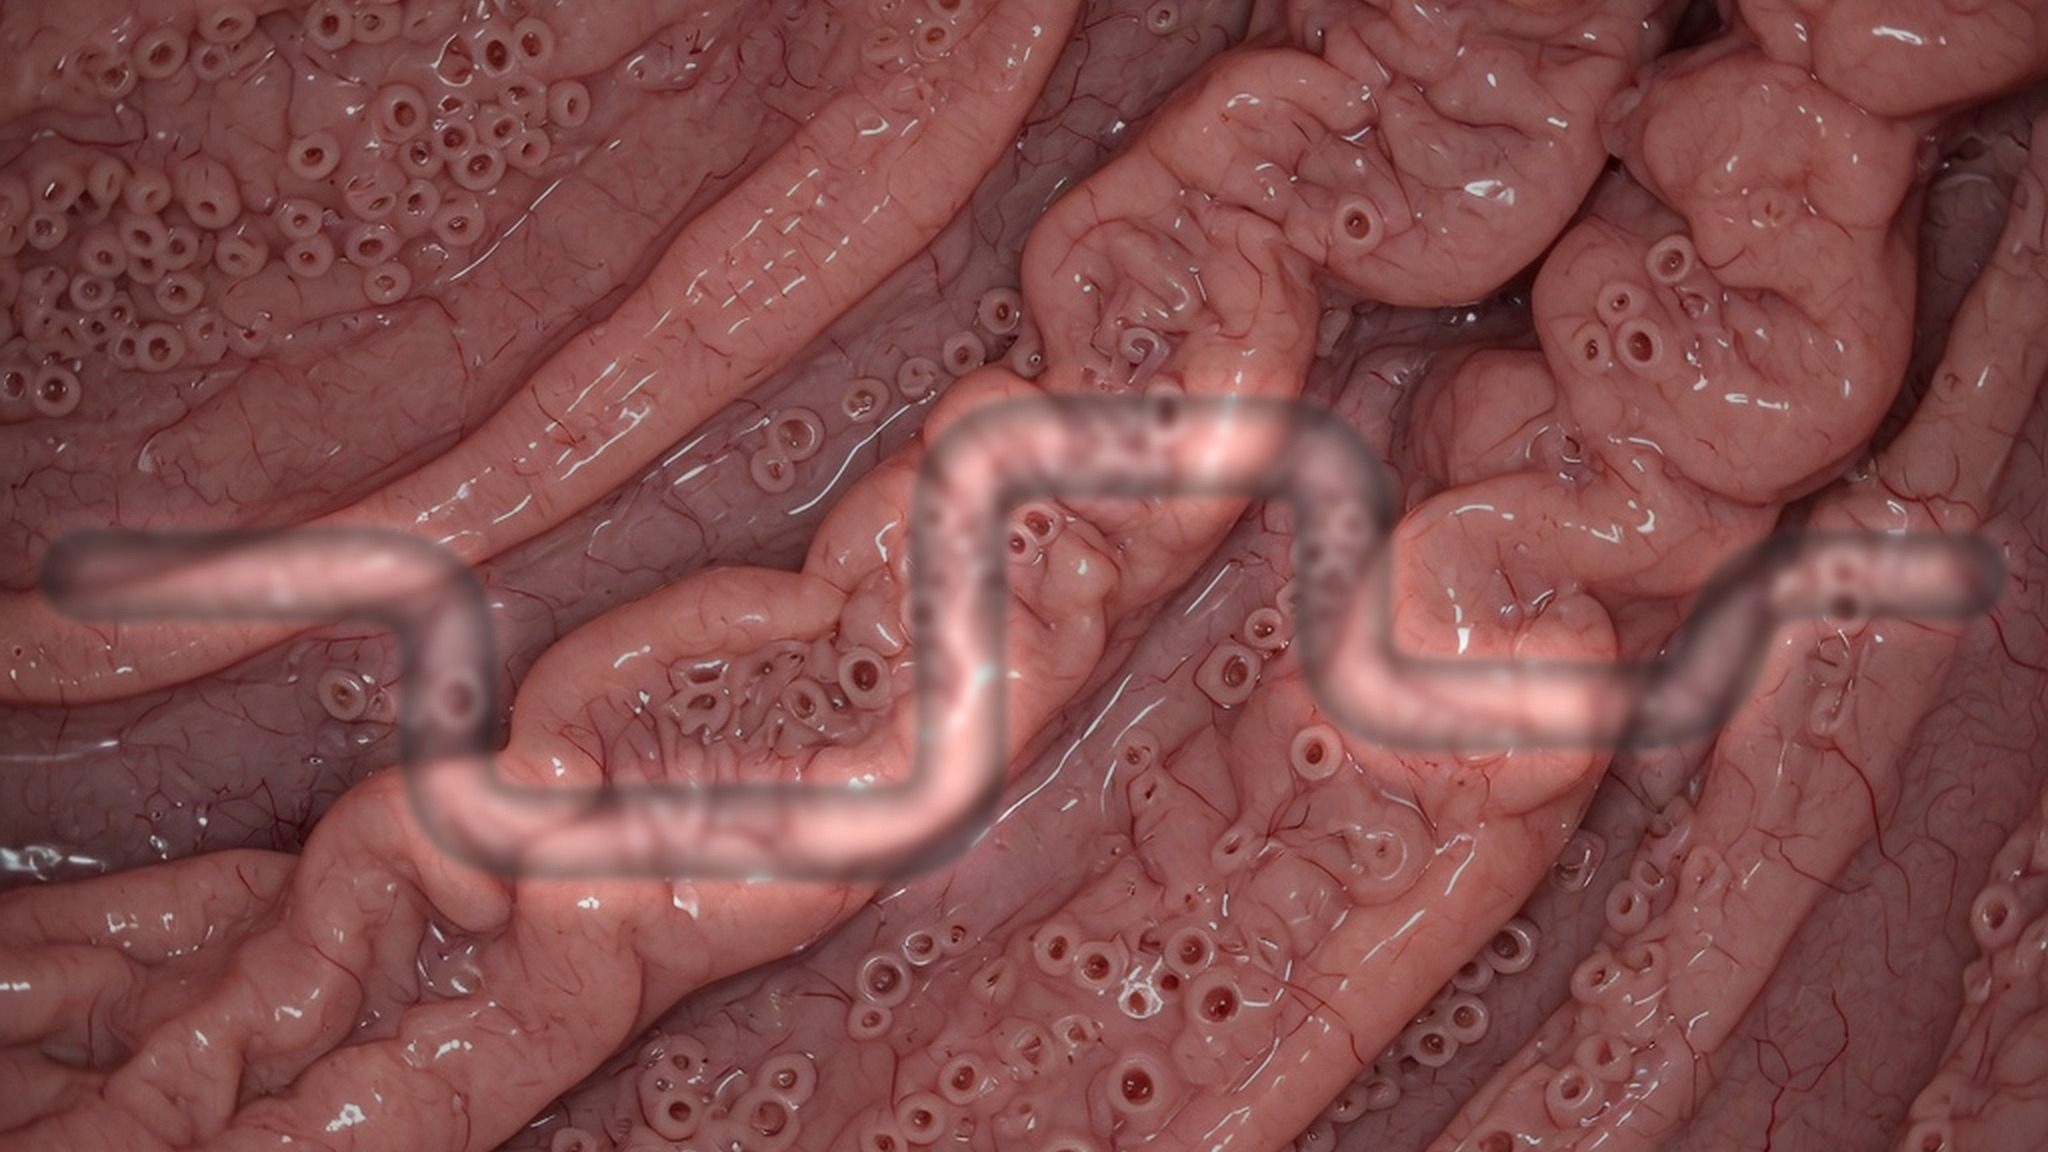
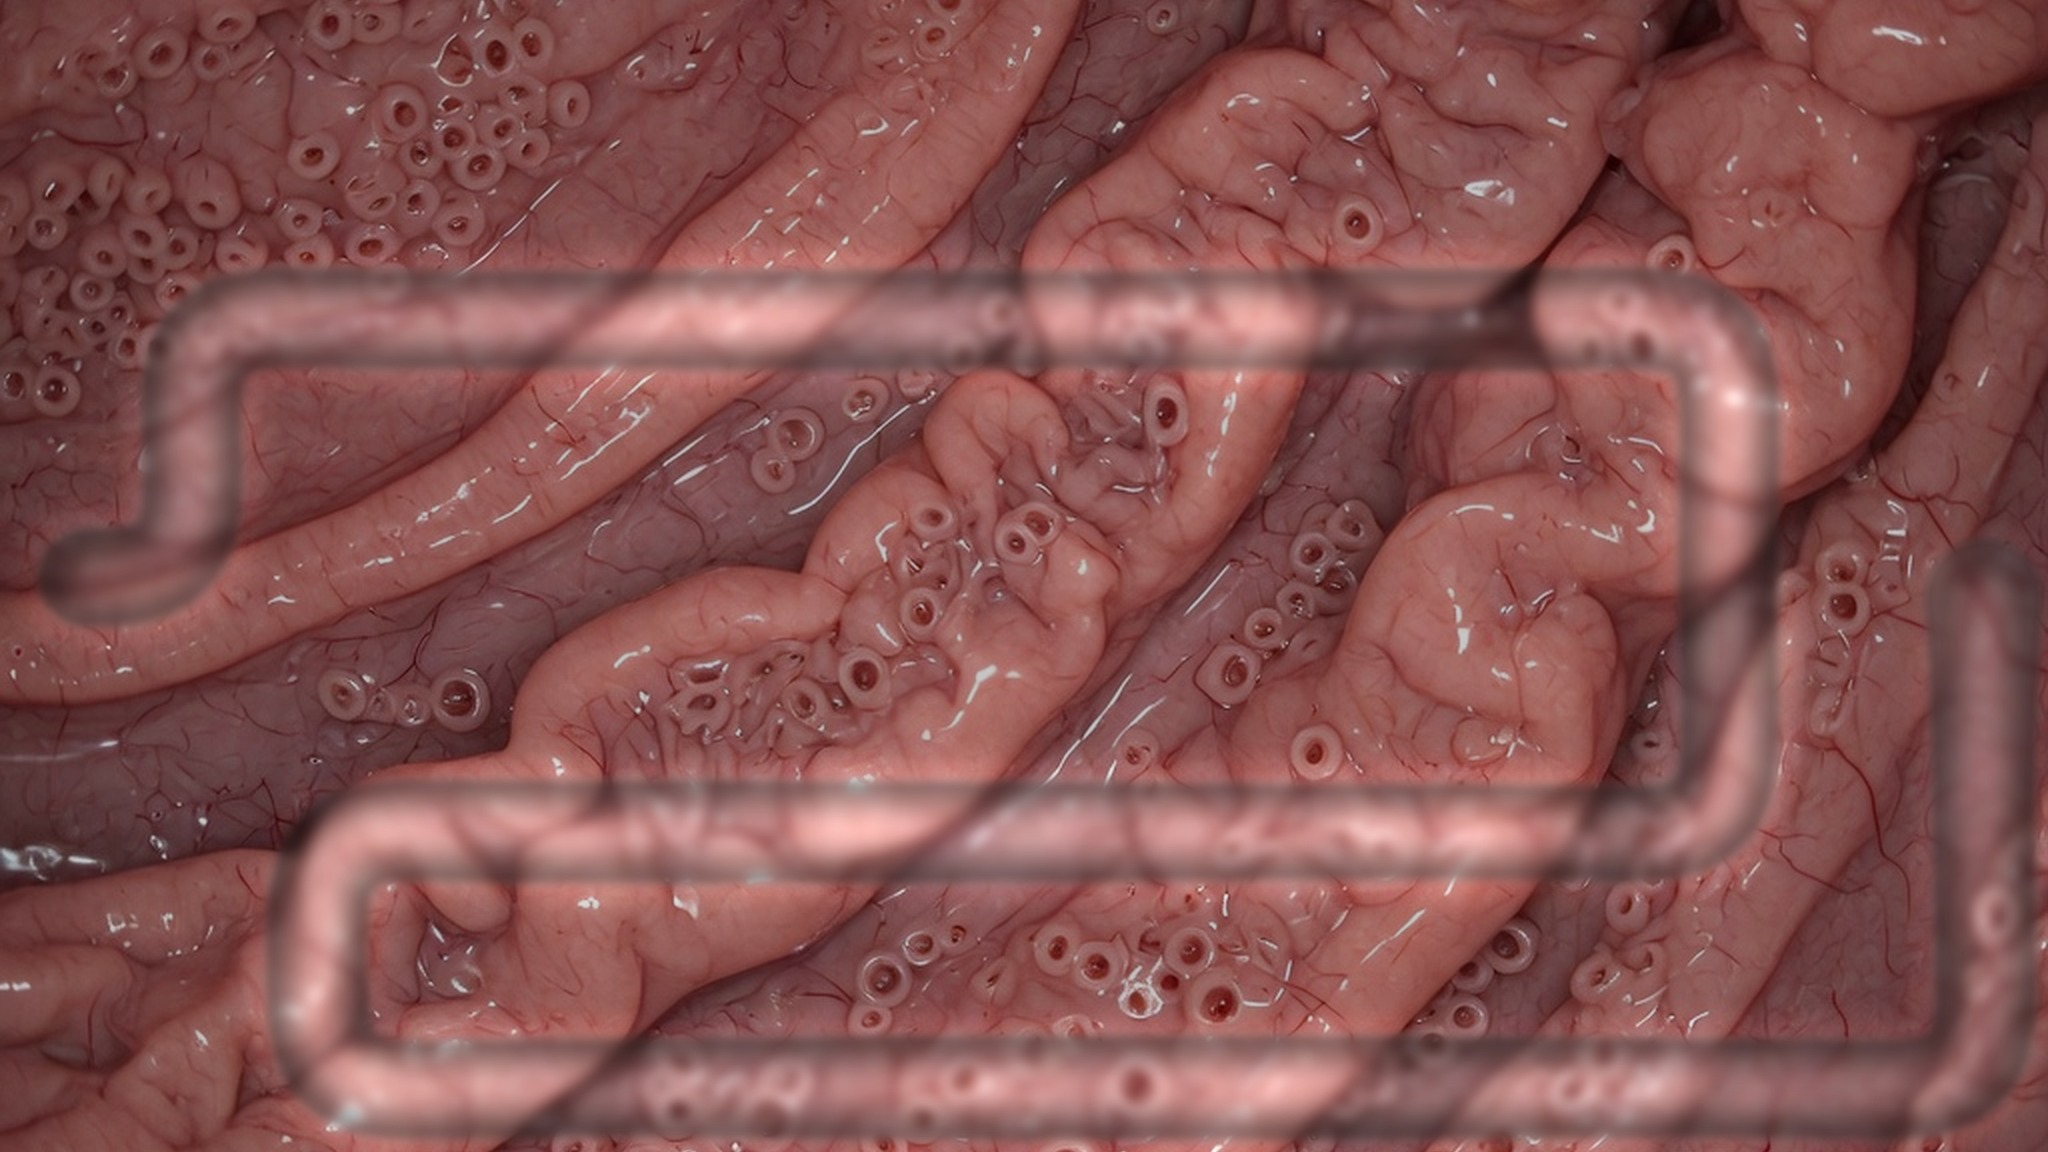
v107: M0 path 24 -> 50 waypoints; decouple selftests from route geometry
The map could not be changed because ~20 selftests hardcoded cells and tick
budgets chosen for one specific 24-cell route. Those expectations now derive
from Path.WAYPOINTS, so future path edits need no test edits:

- window.cellCovering / cellFarFromPath pick tower cells from the route
- traversal budgets scale with waypoint count instead of a literal 240
- count pins derive (buildable = W*H - K); M0 length no longer pinned
- M1/M2/M3 remain verbatim-locked; only M0 is the tunable map
- assert() now records to window.__failLog: several tests rebuilt the overlay
  from an OK-only list, erasing the cause of their own failures
- new: path contiguity assert, which the old literal count never checked

Board art re-baked for the new route. tools/pathkit.py reports a route's blast
radius before it is applied. 67/67 selftests green on Chromium and WebKit.

Changed region(s): [[0.0625, 0.2188, 1.0, 1.0], [0.4375, 0.3438, 0.875, 0.7812]]

diff --git a/index.html b/index.html
@@ -232,7 +232,7 @@
   <div>Organ: <span id="hud-lives">0</span></div>
   <div>Wave: <span id="hud-wave">0</span></div>
   <div id="hud-packs" style="font-size:13px;opacity:0.9;">Packs: —</div>
-  <div id="hud-ver">v106</div>
+  <div id="hud-ver">v107</div>
   <button id="btn-fullscreen" type="button" title="Toggle fullscreen"
     style="display:none;margin-top:6px;width:100%;min-height:34px;font:14px monospace;
            cursor:pointer;border-radius:6px;border:1px solid #666;background:#222;color:#fff;">
@@ -266,18 +266,18 @@
   <button id="btn-sell" type="button" class="game-btn">Sell</button>
   <div id="rotate-hint">Rotate your phone — bigger board in landscape</div>
 </div>
-<script src="three.min.js?v=106"></script>
-<script src="js/path.js?v=106"></script>
-<script src="js/grid.js?v=106"></script>
-<script src="js/lives.js?v=106"></script>
-<script src="js/enemies.js?v=106"></script>
-<script src="js/economy.js?v=106"></script>
-<script src="js/towers.js?v=106"></script>
-<script src="js/waves.js?v=106"></script>
-<script src="js/missions.js?v=106"></script>
-<script src="js/game.js?v=106"></script>
-<script src="js/presentation.js?v=106"></script><script src="js/ambient.js?v=106"></script>
-<script src="js/sfx.js?v=106"></script>
+<script src="three.min.js?v=107"></script>
+<script src="js/path.js?v=107"></script>
+<script src="js/grid.js?v=107"></script>
+<script src="js/lives.js?v=107"></script>
+<script src="js/enemies.js?v=107"></script>
+<script src="js/economy.js?v=107"></script>
+<script src="js/towers.js?v=107"></script>
+<script src="js/waves.js?v=107"></script>
+<script src="js/missions.js?v=107"></script>
+<script src="js/game.js?v=107"></script>
+<script src="js/presentation.js?v=107"></script><script src="js/ambient.js?v=107"></script>
+<script src="js/sfx.js?v=107"></script>
 <script>
 (function() {
   var canvas = document.getElementById('c');
@@ -630,6 +630,52 @@
 
   // game state
   window.__game = { state: "ready", grid: Grid, path: Path, lives: Lives, enemies: Enemies };
+
+  // --- selftest geometry helpers -------------------------------------------------
+  // Targeting tests used to hardcode a tower cell hand-picked for one specific route
+  // (e.g. Towers.place(4,5) because the old wp3/wp5 happened to sit beside it). That
+  // silently pinned the map: any path edit broke a dozen tests for reasons that had
+  // nothing to do with the code under test. Derive the cell from the route instead.
+  // See tools/pathkit.py.
+
+  // Nearest buildable cell within Manhattan `r` of EVERY listed waypoint index.
+  // Returns [x,y], or null if the route admits no such cell.
+  window.cellCovering = function (idxs, r) {
+    var wps = [];
+    for (var i = 0; i < idxs.length; i++) {
+      var w = Path.cellAt(idxs[i]);
+      if (!w) return null;
+      wps.push(w);
+    }
+    for (var y = 0; y < Grid.H; y++) {
+      for (var x = 0; x < Grid.W; x++) {
+        if (!Grid.isBuildable(x, y)) continue;
+        var all = true;
+        for (var k = 0; k < wps.length; k++) {
+          if (Math.abs(wps[k][0] - x) + Math.abs(wps[k][1] - y) > r) { all = false; break; }
+        }
+        if (all) return [x, y];
+      }
+    }
+    return null;
+  };
+
+  // A buildable cell guaranteed to be OUT of range r of every waypoint (for
+  // "never acquires" tests, which previously hardcoded a far corner).
+  window.cellFarFromPath = function (r) {
+    for (var y = 0; y < Grid.H; y++) {
+      for (var x = 0; x < Grid.W; x++) {
+        if (!Grid.isBuildable(x, y)) continue;
+        var far = true;
+        for (var k = 0; k < Path.WAYPOINTS.length; k++) {
+          var w = Path.WAYPOINTS[k];
+          if (Math.abs(w[0] - x) + Math.abs(w[1] - y) <= r) { far = false; break; }
+        }
+        if (far) return [x, y];
+      }
+    }
+    return null;
+  };
 
   // selftest_PTarget — F-STAB target acquisition + retention
   window.selftest_PTarget = function() {
@@ -1079,8 +1125,13 @@
   window.addEventListener('resize', layoutBottomBar);
 
   // assert helper — writes to overlay, returns false on fail
+  // Several selftests rebuild overlay.textContent from an OK-only line list at the end,
+  // which ERASES the FAIL text written here and leaves a bare "SELFTEST X FAIL" with no
+  // cause. Record every failure in a durable log the gate can read regardless.
+  window.__failLog = [];
   function assert(cond, msg) {
     if (!cond) {
+      window.__failLog.push(msg);
       overlay.textContent += '\nFAIL: ' + msg;
       return false;
     }
@@ -1096,9 +1147,18 @@
 
     Grid.init(1);
 
-    // (a) WAYPOINTS.length === 24 and Path.length === 24
-    chk(Path.WAYPOINTS.length === 24, 'WAYPOINTS.length==24');
-    chk(Path.length === 24, 'Path.length==24');
+    // (a) Path mirrors the loaded mission table. Derived, NOT a hardcoded count:
+    // a literal here pinned the route and blocked every path change (see tools/pathkit.py).
+    var K = Path.WAYPOINTS.length;
+    chk(K >= 8, 'WAYPOINTS.length sane got ' + K);
+    chk(Path.length === K, 'Path.length==WAYPOINTS.length got ' + Path.length);
+
+    // (a.2) contiguity — the invariant the literal 24 never actually checked
+    for (var ic = 1; ic < K; ic++) {
+      var pa = Path.WAYPOINTS[ic - 1], pb = Path.WAYPOINTS[ic];
+      chk(Math.abs(pa[0] - pb[0]) + Math.abs(pa[1] - pb[1]) === 1,
+          'contiguous step ' + ic + ' [' + pa + ']->[' + pb + ']');
+    }
 
     // (b) every waypoint in bounds; no duplicates
     var seen = {};
@@ -1144,8 +1204,8 @@
         pathCount++;
       }
     }
-    chk(floorCount === 120, 'floorCount===120 got ' + floorCount);
-    chk(pathCount === 24, 'pathCount===24 got ' + pathCount);
+    chk(floorCount === Grid.W * Grid.H - K, 'floorCount===' + (Grid.W * Grid.H - K) + ' got ' + floorCount);
+    chk(pathCount === K, 'pathCount===' + K + ' got ' + pathCount);
     chk(blockedCount === 0, 'blockedCount===0 got ' + blockedCount);
 
     // (f) init(1) twice → identical gridTypes
@@ -1303,7 +1363,10 @@
     // (d) exit lives 5→4
     Lives.reset(); Enemies.reset();
     var idD = Enemies.spawn();
-    for (var t3 = 0; t3 < 240; t3++) { Enemies.tick(); }
+    // budget derived from route length (basic walks one cell per 10 ticks). A literal
+    // 240 here assumed a 24-cell route and broke the moment the map got longer.
+    var exitBudget = Path.WAYPOINTS.length * 10 + 40;
+    for (var t3 = 0; t3 < exitBudget; t3++) { Enemies.tick(); }
     chk(Enemies.count() === 0, '(d) count==0 after exit');
     chk(Enemies.get(idD) === null, '(d) get(id)==null after exit');
     chk(Lives.get() === 4, '(d) lives==4 got ' + Lives.get());
@@ -1523,7 +1586,10 @@
 
     // (e) acquisition = highest wpIndex among in-range
     fullReset();
-    var tidE = Towers.place(4, 5);
+    // cell derived from the route: must cover wp3 (t=30) and wp5 (t=50)
+    var cE = window.cellCovering([3, 5], 2);
+    chk(cE !== null, '(e.cell) a cell covering wp3+wp5 exists');
+    var tidE = Towers.place(cE[0], cE[1]);
     var e1 = Enemies.spawn(); // at wp0 initially, will advance
     for (var k4 = 0; k4 < 30; k4++) { Enemies.tick(); } // e1 advances to wpIndex=3
     var e2 = Enemies.spawn(); // at wp0, wpIndex=0
@@ -1798,7 +1864,10 @@
     chk(exitCell !== null && exitCell[0] === 15 && exitCell[1] === 4, '(d) exit=[15,4] got [' + (exitCell ? exitCell[0] : 'null') + ',' + (exitCell ? exitCell[1] : 'null') + ']');
 
     // (e) load0/1/2 restore M0/M1/M2 waypoint tables (literal deep-equal from missions.js)
-    var M0_WAYPOINTS = [[0,4],[1,4],[2,4],[3,4],[3,5],[3,6],[4,6],[5,6],[6,6],[7,6],[7,5],[7,4],[7,3],[8,3],[9,3],[10,3],[10,4],[10,5],[11,5],[12,5],[13,5],[13,4],[14,4],[15,4]];
+    // M0 is the tunable map — this block tests that its waypoints are RESTORED after
+    // loading other missions, not that they equal one specific route. M1/M2/M3 stay
+    // verbatim-locked below. See tools/pathkit.py.
+    var M0_WAYPOINTS = Missions.LIST[0].waypoints;
     var M1_WAYPOINTS = [[0,1],[1,1],[2,1],[3,1],[4,1],[5,1],[5,2],[5,3],[5,4],[6,4],[7,4],[8,4],[8,3],[8,2],[9,2],[10,2],[11,2],[11,3],[11,4],[11,5],[12,5],[13,5],[14,5],[15,5]];
     var M2_WAYPOINTS = [[0,7],[1,7],[2,7],[3,7],[3,6],[3,5],[3,4],[4,4],[5,4],[5,5],[5,6],[6,6],[7,6],[8,6],[9,6],[9,5],[9,4],[9,3],[10,3],[11,3],[12,3],[13,3],[13,2],[14,2],[15,2]];
     function deepEqual(a, b) { if (a.length !== b.length) return false; for (var i = 0; i < a.length; i++) { if (a[i][0] !== b[i][0] || a[i][1] !== b[i][1]) return false; } return true; }
@@ -2140,9 +2209,12 @@
     chk(Missions.LIST[0].gold === 200, '(a.m0.gold)');
     chk(Missions.LIST[0].lives === 5, '(a.m0.lives)');
     chk(Missions.LIST[0].seed === 1, '(a.m0.seed)');
-    chk(Missions.LIST[0].waypoints.length === 24, '(a.m0.n)');
-    chk(Missions.LIST[0].waypoints[0][0] === 0 && Missions.LIST[0].waypoints[0][1] === 4, '(a.m0.start)');
-    chk(Missions.LIST[0].waypoints[23][0] === 15 && Missions.LIST[0].waypoints[23][1] === 4, '(a.m0.exit)');
+    // M0 is the tunable map (see tools/pathkit.py). Its LENGTH is deliberately not
+    // pinned — start cell and right-edge exit are the invariants that actually matter.
+    var m0wp = Missions.LIST[0].waypoints;
+    chk(m0wp.length >= 20, '(a.m0.n) got ' + m0wp.length);
+    chk(m0wp[0][0] === 0 && m0wp[0][1] === 4, '(a.m0.start)');
+    chk(m0wp[m0wp.length - 1][0] === Grid.W - 1, '(a.m0.exit) exits right edge got ' + m0wp[m0wp.length - 1]);
     // M1
     chk(Missions.LIST[1].gold === 250, '(a.m1.gold)');
     chk(Missions.LIST[1].lives === 3, '(a.m1.lives)');
@@ -2181,9 +2253,10 @@
     chk(Missions.current() === 0, '(b.cur)');
     chk(Economy.getGold() === 200, '(b.gold)');
     chk(Lives.get() === 5, '(b.lives)');
-    chk(Path.WAYPOINTS.length === 24, '(b.n)');
+    chk(Path.WAYPOINTS.length === Missions.LIST[0].waypoints.length, '(b.n) mirrors M0 table got ' + Path.WAYPOINTS.length);
     chk(Path.cellAt(0)[0] === 0 && Path.cellAt(0)[1] === 4, '(b.start)');
-    chk(Path.cellAt(23)[0] === 15 && Path.cellAt(23)[1] === 4, '(b.exit)');
+    var bx = Path.cellAt(Path.WAYPOINTS.length - 1);
+    chk(bx[0] === Grid.W - 1, '(b.exit) exits right edge got [' + bx + ']');
     chk(Path.isPath(0, 4) === true, '(b.pathStart)');
     chk(Path.isPath(0, 1) === false, '(b.notM1start)');
     chk(Waves.tickCount() === 0, '(b.w0)');
@@ -2486,7 +2559,9 @@
     var idE = Enemies.spawn();
     Presentation.sync();
     chk(Presentation.enemyCount() === 1, '(e.pre)');
-    for (var tE = 0; tE < 240; tE++) { Enemies.tick(); }
+    // budget derived from route length, not a literal 240 (see tools/pathkit.py)
+    var tEBudget = Path.WAYPOINTS.length * 10 + 40;
+    for (var tE = 0; tE < tEBudget; tE++) { Enemies.tick(); }
     Presentation.sync();
     chk(Presentation.enemyCount() === 0, '(e.count0)');
     chk(Enemies.count() === 0, '(e.sim0)');
@@ -2735,7 +2810,7 @@
       chk(violations === 0, '(a.'+m+') M'+m+' specials near entry: '+violations);
     }
 
-    // (b) M0: exactly 120 buildable cells, zero cells report type 2
+    // (b) M0: every non-path cell buildable, zero cells report type 2
     Missions.load(0); Grid.init(1);
     var buildCount = 0, type2Count = 0;
     for (var y3 = 0; y3 < Grid.H; y3++) {
@@ -2745,7 +2820,8 @@
         if (g[y3 * Grid.W + x3] === 2) type2Count++;
       }
     }
-    chk(buildCount === 120, '(b.buildable) got '+buildCount);
+    var wantBuild = Grid.W * Grid.H - Path.WAYPOINTS.length;
+    chk(buildCount === wantBuild, '(b.buildable) want '+wantBuild+' got '+buildCount);
     chk(type2Count === 0, '(b.type2) got '+type2Count);
 
     // (c) find patch/inflamed/null cells; place towers; assert cdMax
@@ -2849,12 +2925,24 @@
     for (var i=0; i<30; i++) Towers.tick();
     chk(Enemies.get(e6).hp === 10, '(c3.hp) got '+Enemies.get(e6).hp);
 
-    // (d) fever range=2: enemies at (3,6) and (4,7), tower at (1,6) — distance 2 <= 2
+    // (d) fever: e7 (ticked to wp5) sits at the EDGE of fever's range 2; e8 (at wp0)
+    // sits one step OUTSIDE it, so the two take different damage. Cell derived from the
+    // route rather than hardcoded — see window.cellCovering / tools/pathkit.py.
     Missions.load(0); Game.reset(); Economy.reset(999);
+    var FEVER_R = 2, OUTSIDE_R = 3;
+    var wD5 = Path.cellAt(5), wD0 = Path.cellAt(0), cD = null;
+    for (var yD = 0; yD < Grid.H && !cD; yD++) {
+      for (var xD = 0; xD < Grid.W && !cD; xD++) {
+        if (!Grid.isBuildable(xD, yD)) continue;
+        if (Math.abs(wD5[0]-xD) + Math.abs(wD5[1]-yD) === FEVER_R &&
+            Math.abs(wD0[0]-xD) + Math.abs(wD0[1]-yD) === OUTSIDE_R) cD = [xD, yD];
+      }
+    }
+    chk(cD !== null, '(d.cell) fever cell derived from route');
     var e7 = Enemies.spawn(); chk(e7 !== null, '(d.e7)');
     for (var i=0; i<50; i++) { if (typeof Enemies.tick === 'function') Enemies.tick(); }
     var e8 = Enemies.spawn(); chk(e8 !== null, '(d.e8)');
-    Towers.place(1, 6, 'fever');
+    Towers.place(cD[0], cD[1], 'fever');
     for (var i=0; i<30; i++) Towers.tick();
     chk(Enemies.get(e7).hp === 4, '(d.hp7) got '+Enemies.get(e7).hp);
     chk(Enemies.get(e8).hp === 9, '(d.hp8) got '+Enemies.get(e8).hp);
@@ -3448,16 +3536,31 @@
     if (Presentation.clearFx) Presentation.clearFx();
     Presentation.setHoverCell(null, null);
     var tids = [];
-    var cells = [[2,3],[4,5]];
-    for (var ci = 0; ci < cells.length; ci++) {
-      if (!Grid.isBuildable(cells[ci][0], cells[ci][1])) continue;
+    // Two towers that BOTH cover a run of three consecutive waypoints, so the three
+    // enemies (spawned one cell apart) are simultaneously in range of both. Derived
+    // from the route — hardcoding [2,3],[4,5] pinned the map. See tools/pathkit.py.
+    var cells = null;
+    for (var kk = 0; kk + 2 < Path.WAYPOINTS.length && !cells; kk++) {
+      var found = [];
+      for (var yy = 0; yy < Grid.H; yy++) {
+        for (var xx = 0; xx < Grid.W; xx++) {
+          if (!Grid.isBuildable(xx, yy)) continue;
+          var okAll = true;
+          for (var q = 0; q < 3; q++) {
+            var wq = Path.cellAt(kk + q);
+            if (Math.abs(wq[0] - xx) + Math.abs(wq[1] - yy) > 2) { okAll = false; break; }
+          }
+          if (okAll) found.push([xx, yy]);
+          if (found.length >= 2) break;
+        }
+        if (found.length >= 2) break;
+      }
+      if (found.length >= 2) cells = found;
+    }
+    chk(cells !== null, '(a.cells) two covering cells derived from route');
+    for (var ci = 0; cells && ci < cells.length; ci++) {
       var tid = Towers.place(cells[ci][0], cells[ci][1]);
       if (typeof tid === 'number') tids.push(tid);
-    }
-    if (tids.length < 2) {
-      var tA = Towers.place(2, 3); var tB = Towers.place(4, 5);
-      if (typeof tA === 'number') tids.push(tA);
-      if (typeof tB === 'number') tids.push(tB);
     }
     chk(tids.length >= 2, '(a.towers) n=' + tids.length);
     var eids = [
@@ -4745,8 +4848,8 @@
     chk(rib.name === 'flowRibbon', '(b.2) name got ' + (rib && rib.name));
     chk(rib.parent === Grid.scene, '(b.3) attached to Grid.scene');
     var K = Path.WAYPOINTS.length;
-    chk(K === 24, '(b.4) M0 waypoints 24 got ' + K);
-    var want = 2 * ((24 - 1) * 8 + 1);
+    chk(K === Missions.LIST[0].waypoints.length, '(b.4) M0 waypoints mirror table got ' + K);
+    var want = 2 * ((K - 1) * 8 + 1);
     var got = rib.geometry.getAttribute('position').count;
     chk(got === want, '(b.5) vertex count ' + want + ' got ' + got);
     chk(rib.renderOrder === 4, '(b.6) renderOrder 4 got ' + rib.renderOrder);

diff --git a/js/missions.js b/js/missions.js
@@ -1,7 +1,7 @@
 window.Missions = {
   LIST: [
     // Mission 0 (default / boot)
-    { seed: 1, gold: 200, lives: 5, schedule: [[0,2],[170,3],[360,3,'spore'],[570,4],[790,3,'fast'],[1020,4,'spore'],[1260,5],[1510,3,'toxin'],[1770,4,'fast'],[2040,5,'toxin'],[2320,4,'fungus'],[2610,5,'fast'],[2910,4,'parasite'],[3220,1,'boss']], waypoints: [[0,4],[1,4],[2,4],[3,4],[3,5],[3,6],[4,6],[5,6],[6,6],[7,6],[7,5],[7,4],[7,3],[8,3],[9,3],[10,3],[10,4],[10,5],[11,5],[12,5],[13,5],[13,4],[14,4],[15,4]] },
+    { seed: 1, gold: 200, lives: 5, schedule: [[0,2],[170,3],[360,3,'spore'],[570,4],[790,3,'fast'],[1020,4,'spore'],[1260,5],[1510,3,'toxin'],[1770,4,'fast'],[2040,5,'toxin'],[2320,4,'fungus'],[2610,5,'fast'],[2910,4,'parasite'],[3220,1,'boss']], waypoints: [[0,4],[1,4],[1,3],[1,2],[2,2],[3,2],[4,2],[5,2],[6,2],[7,2],[8,2],[9,2],[10,2],[11,2],[12,2],[13,2],[13,3],[13,4],[13,5],[13,6],[12,6],[11,6],[10,6],[9,6],[8,6],[7,6],[6,6],[5,6],[4,6],[3,6],[2,6],[2,7],[2,8],[3,8],[4,8],[5,8],[6,8],[7,8],[8,8],[9,8],[10,8],[11,8],[12,8],[13,8],[14,8],[15,8],[15,7],[15,6],[15,5],[15,4]] },
     // Mission 1
     { seed: 7, gold: 250, lives: 3, schedule: [[0,2],[40,2],[100,4]], waypoints: [[0,1],[1,1],[2,1],[3,1],[4,1],[5,1],[5,2],[5,3],[5,4],[6,4],[7,4],[8,4],[8,3],[8,2],[9,2],[10,2],[11,2],[11,3],[11,4],[11,5],[12,5],[13,5],[14,5],[15,5]] },
     // Mission 2

diff --git a/sw.js b/sw.js
@@ -1,6 +1,6 @@
-var VER = 'v106';
-var CACHE_NAME = 'bastion-v106'; // literal for VERSTAMP; must match VER
-var N = '106';
+var VER = 'v107';
+var CACHE_NAME = 'bastion-v107'; // literal for VERSTAMP; must match VER
+var N = '107';
 var JS = ['path','grid','lives','enemies','economy','towers','waves','missions','game','presentation','ambient','sfx'];
 var NETFIRST = ['./','./index.html'].concat(JS.map(function(n){ return './js/'+n+'.js?v='+N; }));
 var IMMUTABLE = ['./three.min.js','./manifest.webmanifest','./icon-192.png','./icon-512.png','./apple-touch-icon.png'];

diff --git a/js/grid.js b/js/grid.js
@@ -327,7 +327,7 @@ window.Grid = {
     scene.add(outer);
 
     // organ canvas — continuous painted scene (tiles become invisible overlays)
-    var boardPath = 'assets/organs/' + organ + '_board.jpg?v=47';
+    var boardPath = 'assets/organs/' + organ + '_board.jpg?v=107';
     var boardLoader = new THREE.TextureLoader();
     var boardTex = boardLoader.load(boardPath);
     if (THREE.SRGBColorSpace !== undefined) {
